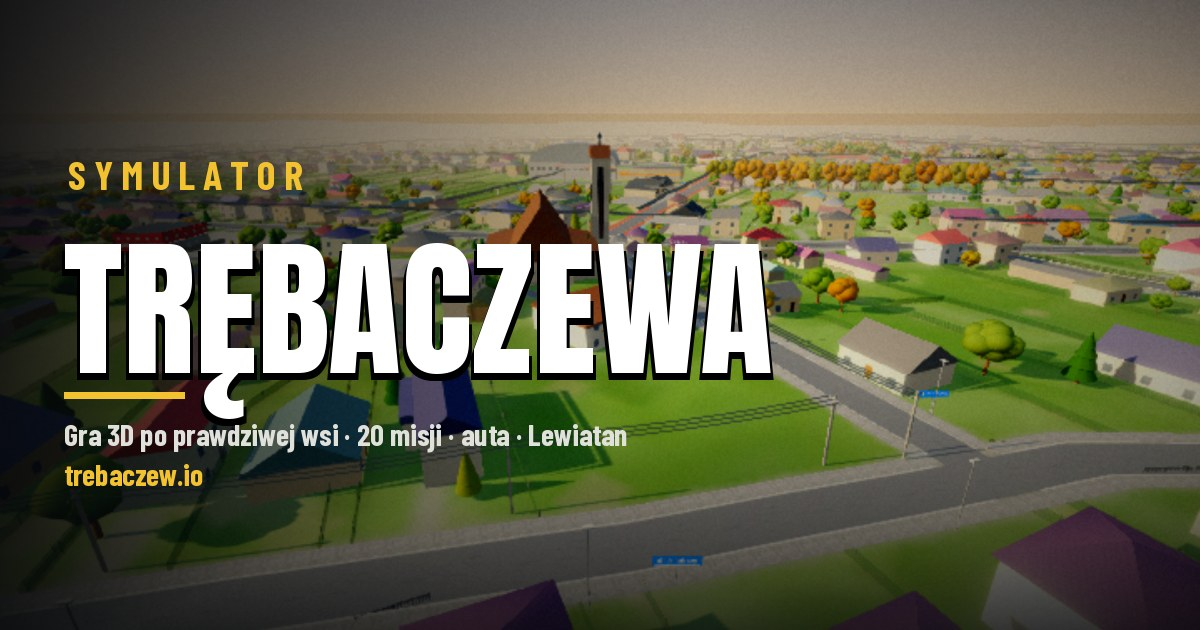
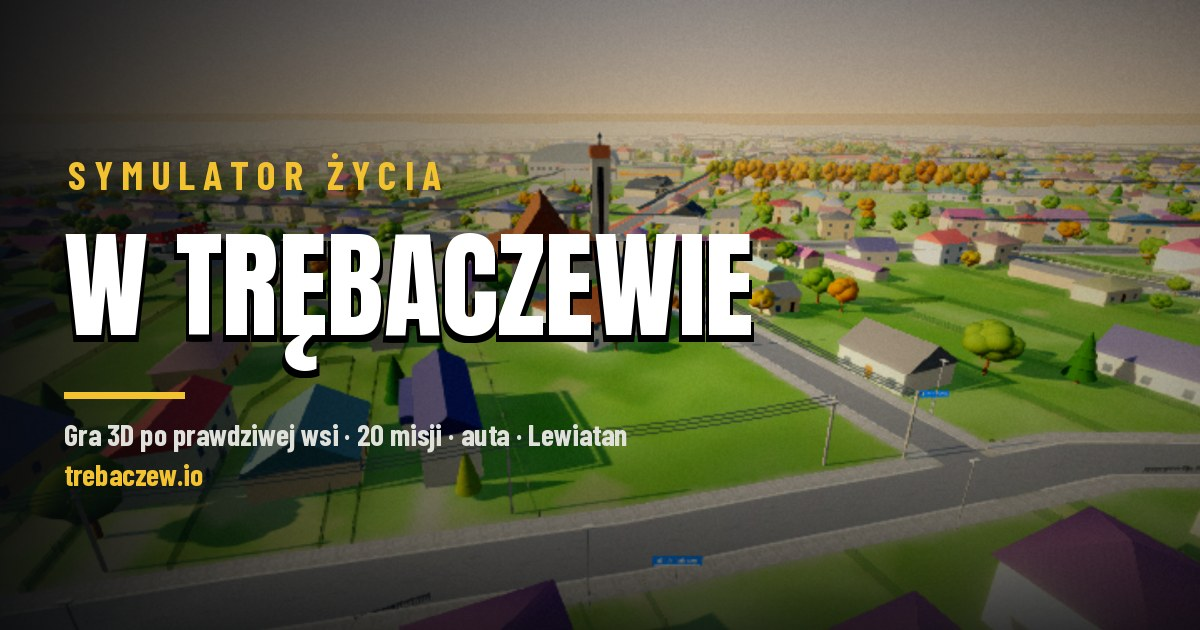
Nowa nazwa: Symulator życia w Trębaczewie
Tytuł strony, menu, pomoc, ekran wygranej, formularz zgłoszeń, manifest aplikacji, README i grafika og.jpg.

Claude-Session: https://claude.ai/code/session_01DuGVhHFnfqDTHiQk9vPR2E

Changed region(s): [[0.0308, 0.3619, 0.6475, 0.6937], [0.2775, 0.2413, 0.37, 0.3016]]

diff --git a/index.html b/index.html
@@ -3,9 +3,9 @@
 <head>
 <meta charset="utf-8">
 <meta name="viewport" content="width=device-width,initial-scale=1,viewport-fit=cover">
-<title>Symulator Trębaczewa</title>
-<meta name="description" content="Symulator Trębaczewa – gra 3D w stylu GTA po prawdziwej wsi Trębaczew (gm. Działoszyn). Misje, poziomy, auta, sklep Lewiatan, Orlen w Działoszynie.">
-<meta property="og:title" content="Symulator Trębaczewa">
+<title>Symulator życia w Trębaczewie</title>
+<meta name="description" content="Symulator życia w Trębaczewie – gra 3D w stylu GTA po prawdziwej wsi Trębaczew (gm. Działoszyn). Misje, poziomy, auta, sklep Lewiatan, Orlen w Działoszynie.">
+<meta property="og:title" content="Symulator życia w Trębaczewie">
 <meta property="og:description" content="Gra 3D w stylu GTA po prawdziwym Trębaczewie. 20 misji, poziomy, auta i dom za 450 000 zł.">
 <meta property="og:image" content="https://trebaczew.io/og.jpg">
 <meta property="og:type" content="website">
@@ -138,7 +138,7 @@ body.inmenu .hud, body.inmenu .tbtns, body.inmenu #joy, body.inmenu .help, body.
 #menu.pause{background:rgba(6,8,10,.62);backdrop-filter:blur(3px)}
 .menuL{padding:calc(6vh + env(safe-area-inset-top,0px)) 5vw calc(4vh + env(safe-area-inset-bottom,0px)) max(5vw,env(safe-area-inset-left,0px));display:flex;flex-direction:column;justify-content:center;gap:4px;width:min(560px,100%);box-sizing:border-box}
 .mKick{font-family:var(--font-sign);font-weight:700;font-size:clamp(18px,2.2vw,24px);letter-spacing:.32em;color:var(--accent);text-transform:uppercase;margin-left:4px}
-.mTitle{margin:0 0 4px;font-family:var(--font-display);font-weight:400;font-size:clamp(50px,8vw,104px);line-height:.88;letter-spacing:.01em;color:#fff;text-shadow:0 5px 0 #000,0 0 40px rgba(0,0,0,.6)}
+.mTitle{margin:0 0 4px;font-family:var(--font-display);font-weight:400;font-size:clamp(40px,6.4vw,84px);line-height:.88;letter-spacing:.01em;color:#fff;text-shadow:0 5px 0 #000,0 0 40px rgba(0,0,0,.6)}
 .mSub{margin:0 0 4vh 4px;color:var(--muted);font-size:15px}
 .mItem{all:unset;box-sizing:border-box;cursor:pointer;font-family:var(--font-sign);font-weight:700;font-size:clamp(25px,3vw,34px);text-transform:uppercase;letter-spacing:.04em;color:#e3e0d7;padding:5px 0 5px 18px;border-left:5px solid transparent;display:flex;align-items:baseline;gap:12px;transition:background .15s,color .15s}
 .mItem:hover,.mItem:focus-visible,.mItem.sel{color:#fff;border-left-color:var(--accent);background:linear-gradient(90deg,rgba(242,194,48,.2),rgba(242,194,48,0) 80%)}
@@ -178,7 +178,7 @@ body.inmenu .hud, body.inmenu .tbtns, body.inmenu #joy, body.inmenu .help, body.
 .menuL>:last-child{margin-bottom:auto}
 .mTitle{line-height:1!important;padding-top:.04em}
 .mKick{line-height:1.3}
-@media (max-height:520px){ .menuL{justify-content:flex-start;padding-top:calc(12px + env(safe-area-inset-top,0px));padding-bottom:12px} .mKick{font-size:13px} .mTitle{font-size:46px;margin-bottom:2px} .mSub{display:none} .mItem{font-size:21px;padding:3px 0 3px 14px} .mFoot{margin-top:8px} .mPanel{max-height:calc(100vh - 20px)} }
+@media (max-height:520px){ .menuL{justify-content:flex-start;padding-top:calc(12px + env(safe-area-inset-top,0px));padding-bottom:12px} .mKick{font-size:13px} .mTitle{font-size:38px;margin-bottom:2px} .mSub{display:none} .mItem{font-size:21px;padding:3px 0 3px 14px} .mFoot{margin-top:8px} .mPanel{max-height:calc(100vh - 20px)} }
 @media (pointer:coarse){ #bLog,#bCam,#bNight{display:none!important} #bMenu{display:inline-block!important}
   .tbtns.more,#bEnter,#bJump,#bLogT{display:none!important}
   .tbtns #bAct:not(.show),.tbtns #bRadio:not(.show){display:none!important} }
@@ -261,7 +261,7 @@ body.inmenu .hud, body.inmenu .tbtns, body.inmenu #joy, body.inmenu .help, body.
 
 <div class="help" id="helpBox">
   <button class="x" id="hideHelp" aria-label="Ukryj pomoc">ukryj</button>
-  <h2>SYMULATOR TRĘBACZEWA</h2>
+  <h2>SYMULATOR ŻYCIA W TRĘBACZEWIE</h2>
   <div id="helpKeys"></div>
   <div class="src">Ulice i budynki: © OpenStreetMap contributors (ODbL). Rzeźba terenu: NMT, działki: ULDK © GUGiK (geoportal.gov.pl). Część nazw z Google Maps.</div>
 </div>
@@ -277,12 +277,12 @@ body.inmenu .hud, body.inmenu .tbtns, body.inmenu #joy, body.inmenu .help, body.
   <header><h2>DZIENNIK MISJI</h2><span id="qLvl"></span><span id="qMoney"></span><button class="btn" id="qClose">Zamknij · Q</button></header>
   <div class="ql"></div><div class="qd"></div>
 </div>
-<div id="winScreen" hidden><div><h1>WŁASNY KĄT<br>W TRĘBACZEWIE</h1><p class="stats"></p><p>Ukończyłeś Symulator Trębaczewa. Możesz grać dalej i robić misje poboczne.</p><button class="btn pri" id="winOk" style="font-size:20px;padding:10px 18px">Graj dalej</button></div></div>
+<div id="winScreen" hidden><div><h1>WŁASNY KĄT<br>W TRĘBACZEWIE</h1><p class="stats"></p><p>Ukończyłeś Symulator życia w Trębaczewie. Możesz grać dalej i robić misje poboczne.</p><button class="btn pri" id="winOk" style="font-size:20px;padding:10px 18px">Graj dalej</button></div></div>
 
 <div id="menu" role="dialog" aria-label="Menu główne">
   <div class="menuL">
-    <div class="mKick">Symulator</div>
-    <h1 class="mTitle">TRĘBACZEWA</h1>
+    <div class="mKick">Symulator życia</div>
+    <h1 class="mTitle">W TRĘBACZEWIE</h1>
     <p class="mSub">gm. Działoszyn · pow. pajęczański · 51°07′ N 18°55′ E</p>
     <button class="mItem" id="mPlay">Tryb jednoosobowy <small id="mPlaySub"></small></button>
     <button class="mItem" id="mLog" hidden>Misje <small id="mLogSub"></small></button>

diff --git a/src/head.html b/src/head.html
@@ -1,6 +1,6 @@
-<title>Symulator Trębaczewa</title>
-<meta name="description" content="Symulator Trębaczewa – gra 3D w stylu GTA po prawdziwej wsi Trębaczew (gm. Działoszyn). Misje, poziomy, auta, sklep Lewiatan, Orlen w Działoszynie.">
-<meta property="og:title" content="Symulator Trębaczewa">
+<title>Symulator życia w Trębaczewie</title>
+<meta name="description" content="Symulator życia w Trębaczewie – gra 3D w stylu GTA po prawdziwej wsi Trębaczew (gm. Działoszyn). Misje, poziomy, auta, sklep Lewiatan, Orlen w Działoszynie.">
+<meta property="og:title" content="Symulator życia w Trębaczewie">
 <meta property="og:description" content="Gra 3D w stylu GTA po prawdziwym Trębaczewie. 20 misji, poziomy, auta i dom za 450 000 zł.">
 <meta property="og:image" content="https://trebaczew.io/og.jpg">
 <meta property="og:type" content="website">
@@ -133,7 +133,7 @@ body.inmenu .hud, body.inmenu .tbtns, body.inmenu #joy, body.inmenu .help, body.
 #menu.pause{background:rgba(6,8,10,.62);backdrop-filter:blur(3px)}
 .menuL{padding:calc(6vh + env(safe-area-inset-top,0px)) 5vw calc(4vh + env(safe-area-inset-bottom,0px)) max(5vw,env(safe-area-inset-left,0px));display:flex;flex-direction:column;justify-content:center;gap:4px;width:min(560px,100%);box-sizing:border-box}
 .mKick{font-family:var(--font-sign);font-weight:700;font-size:clamp(18px,2.2vw,24px);letter-spacing:.32em;color:var(--accent);text-transform:uppercase;margin-left:4px}
-.mTitle{margin:0 0 4px;font-family:var(--font-display);font-weight:400;font-size:clamp(50px,8vw,104px);line-height:.88;letter-spacing:.01em;color:#fff;text-shadow:0 5px 0 #000,0 0 40px rgba(0,0,0,.6)}
+.mTitle{margin:0 0 4px;font-family:var(--font-display);font-weight:400;font-size:clamp(40px,6.4vw,84px);line-height:.88;letter-spacing:.01em;color:#fff;text-shadow:0 5px 0 #000,0 0 40px rgba(0,0,0,.6)}
 .mSub{margin:0 0 4vh 4px;color:var(--muted);font-size:15px}
 .mItem{all:unset;box-sizing:border-box;cursor:pointer;font-family:var(--font-sign);font-weight:700;font-size:clamp(25px,3vw,34px);text-transform:uppercase;letter-spacing:.04em;color:#e3e0d7;padding:5px 0 5px 18px;border-left:5px solid transparent;display:flex;align-items:baseline;gap:12px;transition:background .15s,color .15s}
 .mItem:hover,.mItem:focus-visible,.mItem.sel{color:#fff;border-left-color:var(--accent);background:linear-gradient(90deg,rgba(242,194,48,.2),rgba(242,194,48,0) 80%)}
@@ -173,7 +173,7 @@ body.inmenu .hud, body.inmenu .tbtns, body.inmenu #joy, body.inmenu .help, body.
 .menuL>:last-child{margin-bottom:auto}
 .mTitle{line-height:1!important;padding-top:.04em}
 .mKick{line-height:1.3}
-@media (max-height:520px){ .menuL{justify-content:flex-start;padding-top:calc(12px + env(safe-area-inset-top,0px));padding-bottom:12px} .mKick{font-size:13px} .mTitle{font-size:46px;margin-bottom:2px} .mSub{display:none} .mItem{font-size:21px;padding:3px 0 3px 14px} .mFoot{margin-top:8px} .mPanel{max-height:calc(100vh - 20px)} }
+@media (max-height:520px){ .menuL{justify-content:flex-start;padding-top:calc(12px + env(safe-area-inset-top,0px));padding-bottom:12px} .mKick{font-size:13px} .mTitle{font-size:38px;margin-bottom:2px} .mSub{display:none} .mItem{font-size:21px;padding:3px 0 3px 14px} .mFoot{margin-top:8px} .mPanel{max-height:calc(100vh - 20px)} }
 @media (pointer:coarse){ #bLog,#bCam,#bNight{display:none!important} #bMenu{display:inline-block!important}
   .tbtns.more,#bEnter,#bJump,#bLogT{display:none!important}
   .tbtns #bAct:not(.show),.tbtns #bRadio:not(.show){display:none!important} }
@@ -256,7 +256,7 @@ body.inmenu .hud, body.inmenu .tbtns, body.inmenu #joy, body.inmenu .help, body.
 
 <div class="help" id="helpBox">
   <button class="x" id="hideHelp" aria-label="Ukryj pomoc">ukryj</button>
-  <h2>SYMULATOR TRĘBACZEWA</h2>
+  <h2>SYMULATOR ŻYCIA W TRĘBACZEWIE</h2>
   <div id="helpKeys"></div>
   <div class="src">Ulice i budynki: © OpenStreetMap contributors (ODbL). Rzeźba terenu: NMT, działki: ULDK © GUGiK (geoportal.gov.pl). Część nazw z Google Maps.</div>
 </div>
@@ -272,12 +272,12 @@ body.inmenu .hud, body.inmenu .tbtns, body.inmenu #joy, body.inmenu .help, body.
   <header><h2>DZIENNIK MISJI</h2><span id="qLvl"></span><span id="qMoney"></span><button class="btn" id="qClose">Zamknij · Q</button></header>
   <div class="ql"></div><div class="qd"></div>
 </div>
-<div id="winScreen" hidden><div><h1>WŁASNY KĄT<br>W TRĘBACZEWIE</h1><p class="stats"></p><p>Ukończyłeś Symulator Trębaczewa. Możesz grać dalej i robić misje poboczne.</p><button class="btn pri" id="winOk" style="font-size:20px;padding:10px 18px">Graj dalej</button></div></div>
+<div id="winScreen" hidden><div><h1>WŁASNY KĄT<br>W TRĘBACZEWIE</h1><p class="stats"></p><p>Ukończyłeś Symulator życia w Trębaczewie. Możesz grać dalej i robić misje poboczne.</p><button class="btn pri" id="winOk" style="font-size:20px;padding:10px 18px">Graj dalej</button></div></div>
 
 <div id="menu" role="dialog" aria-label="Menu główne">
   <div class="menuL">
-    <div class="mKick">Symulator</div>
-    <h1 class="mTitle">TRĘBACZEWA</h1>
+    <div class="mKick">Symulator życia</div>
+    <h1 class="mTitle">W TRĘBACZEWIE</h1>
     <p class="mSub">gm. Działoszyn · pow. pajęczański · 51°07′ N 18°55′ E</p>
     <button class="mItem" id="mPlay">Tryb jednoosobowy <small id="mPlaySub"></small></button>
     <button class="mItem" id="mLog" hidden>Misje <small id="mLogSub"></small></button>

diff --git a/zglos.html b/zglos.html
@@ -3,8 +3,8 @@
 <head>
 <meta charset="utf-8">
 <meta name="viewport" content="width=device-width,initial-scale=1">
-<title>Zgłoś błąd · Symulator Trębaczewa</title>
-<meta name="description" content="Formularz zgłaszania błędów w grze Symulator Trębaczewa.">
+<title>Zgłoś błąd · Symulator życia w Trębaczewie</title>
+<meta name="description" content="Formularz zgłaszania błędów w grze Symulator życia w Trębaczewie.">
 <meta name="robots" content="noindex">
 <link rel="icon" href="src/favicon.png">
 <link rel="stylesheet" href="https://fonts.googleapis.com/css2?family=Anton&family=Barlow+Condensed:wght@600;700&family=Barlow:wght@400;500;600&display=swap">
@@ -36,7 +36,7 @@ a{color:var(--accent)}
 </head>
 <body>
 <main>
-  <div class="kick">Symulator</div>
+  <div class="kick">Symulator życia w Trębaczewie</div>
   <h1>ZGŁOŚ BŁĄD</h1>
   <p class="lead">Coś nie działa, coś nachodzi na drogę albo masz pomysł? Opisz to tutaj. Zgłoszenie trafi prosto do autora gry.</p>
   <form id="f" novalidate>
@@ -72,7 +72,7 @@ $('f').addEventListener('submit', async e => {
   $('send').disabled = true; $('send').textContent = 'Wysyłanie…';
   try {
     const r = await fetch('https://api.web3forms.com/submit', { method: 'POST', headers: { 'Content-Type': 'application/json', Accept: 'application/json' },
-      body: JSON.stringify({ access_key: ACCESS_KEY, subject: `[Trębaczew] ${$('kat').value}`, from_name: 'Symulator Trębaczewa', kategoria: $('kat').value, opis, kontakt: $('kontakt').value.trim(), informacje_z_gry: info, botcheck: $('f').botcheck.checked }) });
+      body: JSON.stringify({ access_key: ACCESS_KEY, subject: `[Trębaczew] ${$('kat').value}`, from_name: 'Symulator życia w Trębaczewie', kategoria: $('kat').value, opis, kontakt: $('kontakt').value.trim(), informacje_z_gry: info, botcheck: $('f').botcheck.checked }) });
     const j = await r.json().catch(() => ({}));
     if (r.ok && j.success !== false) { msg.className = 'msg ok'; msg.textContent = 'Dziękuję! Zgłoszenie zostało wysłane.'; $('opis').value = ''; }
     else throw new Error(j.message || 'błąd serwera');

diff --git a/sw.js b/sw.js
@@ -1,5 +1,5 @@
-// Symulator Trębaczewa – pamięć podręczna: gra działa po zainstalowaniu także bez internetu.
-const CACHE = 'trebaczew-v1';
+// Symulator życia w Trębaczewie – pamięć podręczna: gra działa po zainstalowaniu także bez internetu.
+const CACHE = 'trebaczew-v2';
 const CORE = ['./', 'index.html', 'manifest.webmanifest', 'src/icon-192.png', 'src/icon-512.png'];
 self.addEventListener('install', e => { e.waitUntil(caches.open(CACHE).then(c => c.addAll(CORE)).then(() => self.skipWaiting())); });
 self.addEventListener('activate', e => { e.waitUntil(caches.keys().then(ks => Promise.all(ks.filter(k => k !== CACHE).map(k => caches.delete(k)))).then(() => self.clients.claim())); });

diff --git a/README.md b/README.md
@@ -1,4 +1,4 @@
-# Symulator Trębaczewa
+# Symulator życia w Trębaczewie
 
 Gra 3D w stylu GTA (dawniej „Trębaczew 3D”), w której można chodzić i jeździć po prawdziwym Trębaczewie (gm. Działoszyn, pow. pajęczański). Ulice, budynki, działki i rzeźba terenu pochodzą z otwartych danych, a charakterystyczne miejsca (Lewiatan, Żabka, kościół, apteka, park, przedszkole, OSP, cmentarz) odwzorowano ze zdjęć.
 
